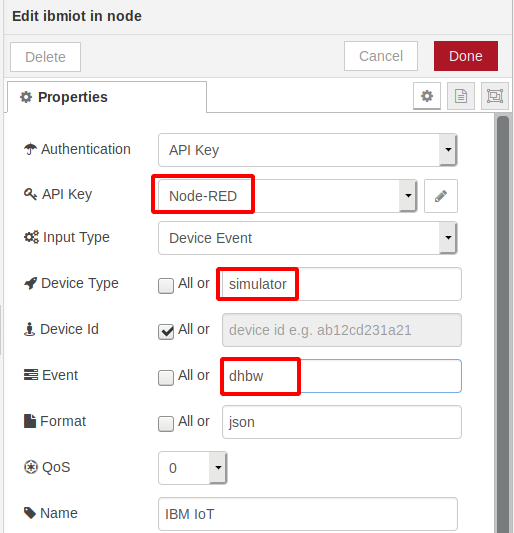
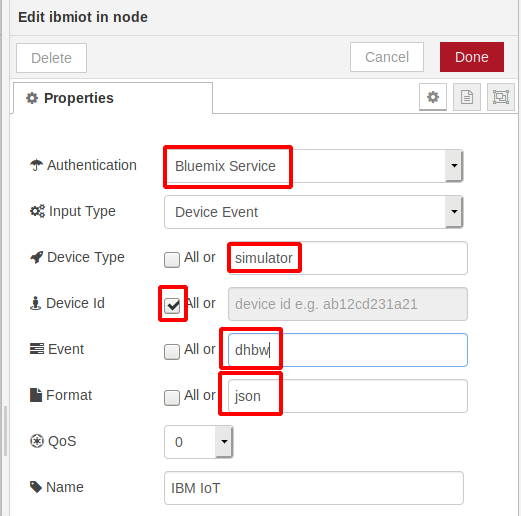
Updates, changes

Changed region(s): [[0.0, 0.0, 0.9027, 1.0], [0.4047, 0.0, 1.0, 1.0], [0.3735, 0.155, 0.4047, 0.186]]

diff --git a/documents/4-NODERED.md b/documents/4-NODERED.md
@@ -6,8 +6,7 @@ If Node-RED isn't still open in your browser from part 1,  open the app from the
 
 ![NodeRED](images/nodered-editor.png)
 
-
-!!!!!!!!!!!!!!!!!!!!!!!!!!!!!!!!!!!!!!!!!!!!!!!!!!!!!!!!!!!!!!!!!!!!!!!!!!!!!!
+At the end of part 1 of this exercise, you have deactivated the two active Debug nodes in the example in Flow 1 (click on the slider on the right side of the node, the slider will "move in" a bit, its color will turn from green to grey, a blue dot will appear at the nodes.)   Then you created another empty flow ("Flow 2") by clicking on the "+". If the "Deploy" button should be red (indicating that there is something to deploy), click it now.
 
 ## Create a flow
 
@@ -29,19 +28,11 @@ You are now ready to create your first "flow".
 
 5. The properties dialog of "Add new ibmiot config node" opens. 
 
-   Enter a name, the API Key, and the Authentication Token. We have created a keythis in the section [Create API Key for Node-RED](#Create-API-Key-for-Node-RED). 
+   Select "Bluemix Service" for Authentication. Bluemix was the former name of the IBM Cloud, and Bluemix Service means we are using a IoTP Service bound the the Cloud FOundry app.
    
-   Server name is your IoTP Org ID (see config.json in the iot-app directory) followed by ".messaging.internetofthings.ibmcloud.com". 
-   
-   "Add" the config node.
+   Input type should remain "Device Event", we use an event topic in the simulator code.
 
-   ![iotp config node](images/iotp-config-node.png)
-
-6. Back in the "Edit ibmiot node" dialog:
-
-    Input type should remain "Device Event", we use an event topic in the simulator code.
-
-    Enter the name of your "Device Type", select "All" for ID, enter the Event, "json" for Format (again, this can be found in the config.json file in iot-app). Click "Done" then "Deploy". 
+    Enter the name of your "Device Type"(e.g. "simulator"), select "All" for ID, enter the Event (e.g. "dhbw"), "json" for Format (again, this can be found in the config.json file in iot-app). Click "Done" then "Deploy". 
 
     ![Properties](images/ibmiot-node.png)
 
@@ -69,7 +60,7 @@ Have a look at the Cloudant dashboard:
 
 2. Click on the name of the Cloudant service in the Services section (non alias). 
 
-   This opens the Manage Cloudant view with additional details. In here click on "Launch Cloudant Dashboard".
+   This opens the Manage Cloudant view with additional details. In the Manage section click on "Launch Cloudant Dashboard".
 
 3. The Databases view of the Cloudant dashboard opens and you should see a database "nodered". This database holds Node-RED information. Have a look at it but do not change anything, it would most likely destroy your Node-RED instance.
 
@@ -101,4 +92,4 @@ Have a look at the Cloudant dashboard:
 
 This was a very simple way to store IoT data. You would use this if you need to archive historical data or use an anlytics or machine learning tool to further analyse the data.
 
-__Continue with [Dashboard ](DASHBOARD.md)__   
+__Continue with [Node-RED Dashboard ](5-DASHBOARD.md)__   

diff --git a/documents/5-DASHBOARD.md b/documents/5-DASHBOARD.md
@@ -1,8 +1,10 @@
 ### Display IoT data in a Node-RED dashboard
 
-Node-RED can be extended very easily. There is a large community of contributors that provide extensions, you can find them [here](https://flows.nodered.org/?num_pages=1). 
+If you followed the instruction "The app doesn't start! Changing the Node.js version of the starter app" in part 1 of this exercise, the Node-RED dashboard is already installed in your Node-RED instance, we added it to the package.json file as a dependency. This is one way to extend Node-RED.
 
-Try and search for the term "dashboard" in the Node-RED Library and only search for nodes. At the tme of this writing I found 25 entries! There is one called "node-red-dashboard". If you look at its contributors you'll see Dave Conway-Johnes and Nick O'Leary among them. They are the ones who started Node-RED.
+There is another way to extend Node-RED built into the editor itself. There is a large community of contributors that provide extensions, you can find them [here](https://flows.nodered.org/?num_pages=1). 
+
+Try and search for the term "dashboard" in the Node-RED Library and only search for nodes. At the time of this writing I found 25 entries! There is one called "node-red-dashboard". If you look at its contributors you'll see Dave Conway-Jones and Nick O'Leary among them. They are the ones who started Node-RED.
 
 Installation of this dashboard is actually quite simple:
 
@@ -10,11 +12,15 @@ Installation of this dashboard is actually quite simple:
 
 2. Open the Hamburger menu in the top right corner.
 
-3. Select "Manage Palette", the "Install", search for "dashboard".
+3. Select "Manage Palette", then "Install", search for "dashboard".
 
 4. Click the "Install" button for "node-red-dashboard". 
 ![install dashboard](images/install-dashboard.png)
-In the dialog, click "Install" again.
+In the dialog, click "install" again.
+
+__Note:__ If there is no "install" button but instead a grey "installed", the dashboard has been  installed already (in Part 1). Ignore the next step and continue with "At the bottom of the Palette ..."
+
+__Note 2:__ The version will most likely be much higher, this is a very busy project.
 
 5. Afer a moment you should see a message that a set of nodes has been installed. (This message will dissappear after a moment.) 
 
@@ -55,7 +61,7 @@ In the dialog, click "Install" again.
       This is what we accomplish with the "change" node:
 
      * "Name" should be "Temperature"
-     * Rule 1: "set" "msg.payload" = "msg.payload.d.temp" (you get this variable when you click on the ">_" behind tempe in the debug window)
+     * Rule 1: "set" "msg.payload" = "msg.payload.d.temp" (you get this variable when you click on the ">_" behind temp in the debug window)
      * "+ add" a second rule
      * Rule 2: "set" "msg.topic" = "a/z temp"
 

diff --git a/documents/1-IoT-Starter.md b/documents/1-IoT-Starter.md
@@ -27,14 +27,13 @@ e. In the "Configure your resource" area, if you see "No org available" for the 
 
 f. Enter a unique (e.g. add your intials to name):
 
-    App Name
-    Host Name (the same as App name)
-    Domain (leave default)
+* App Name
+* Host Name (the same as App name)
+* Domain (leave default)
 
 and verify the selections  for:   
-
-    Organization
-    Space
+* Organization
+* Space
 
 Leave the defaults for the rest.    
 
@@ -58,10 +57,10 @@ We may need to fix something before the app is able to start. Open the "Logs" pa
 
 ![Logs](images/iotp-logs.png)
 
-Scroll down in the log and check if you see a "Failed to compile droplet" error. The message above it will then most likely show that there is no version 6.x in the Node.js buildpack. This could have been fixed by the time you run this exercise, your app will start after a moment without issues. But if you see this error the app will not be able to start and we will need to fix it ourselves.
+Scroll down in the log and check if you see a "Failed to compile droplet" error. The message above it will then most likely show that there is no version 6.x in the Node.js buildpack. Maybe this bug is fixed by the time you run this exercise and your app will start after a moment without issues. But if you see this error, the app __will not be able to start__ and we will need to fix it ourselves.
 
 ---
-### Changing the Node.js version of the starter app
+### The app doesn't start! Changing the Node.js version of the starter app
 
 Go to the Overview page of the app and scroll down a bit:
 
